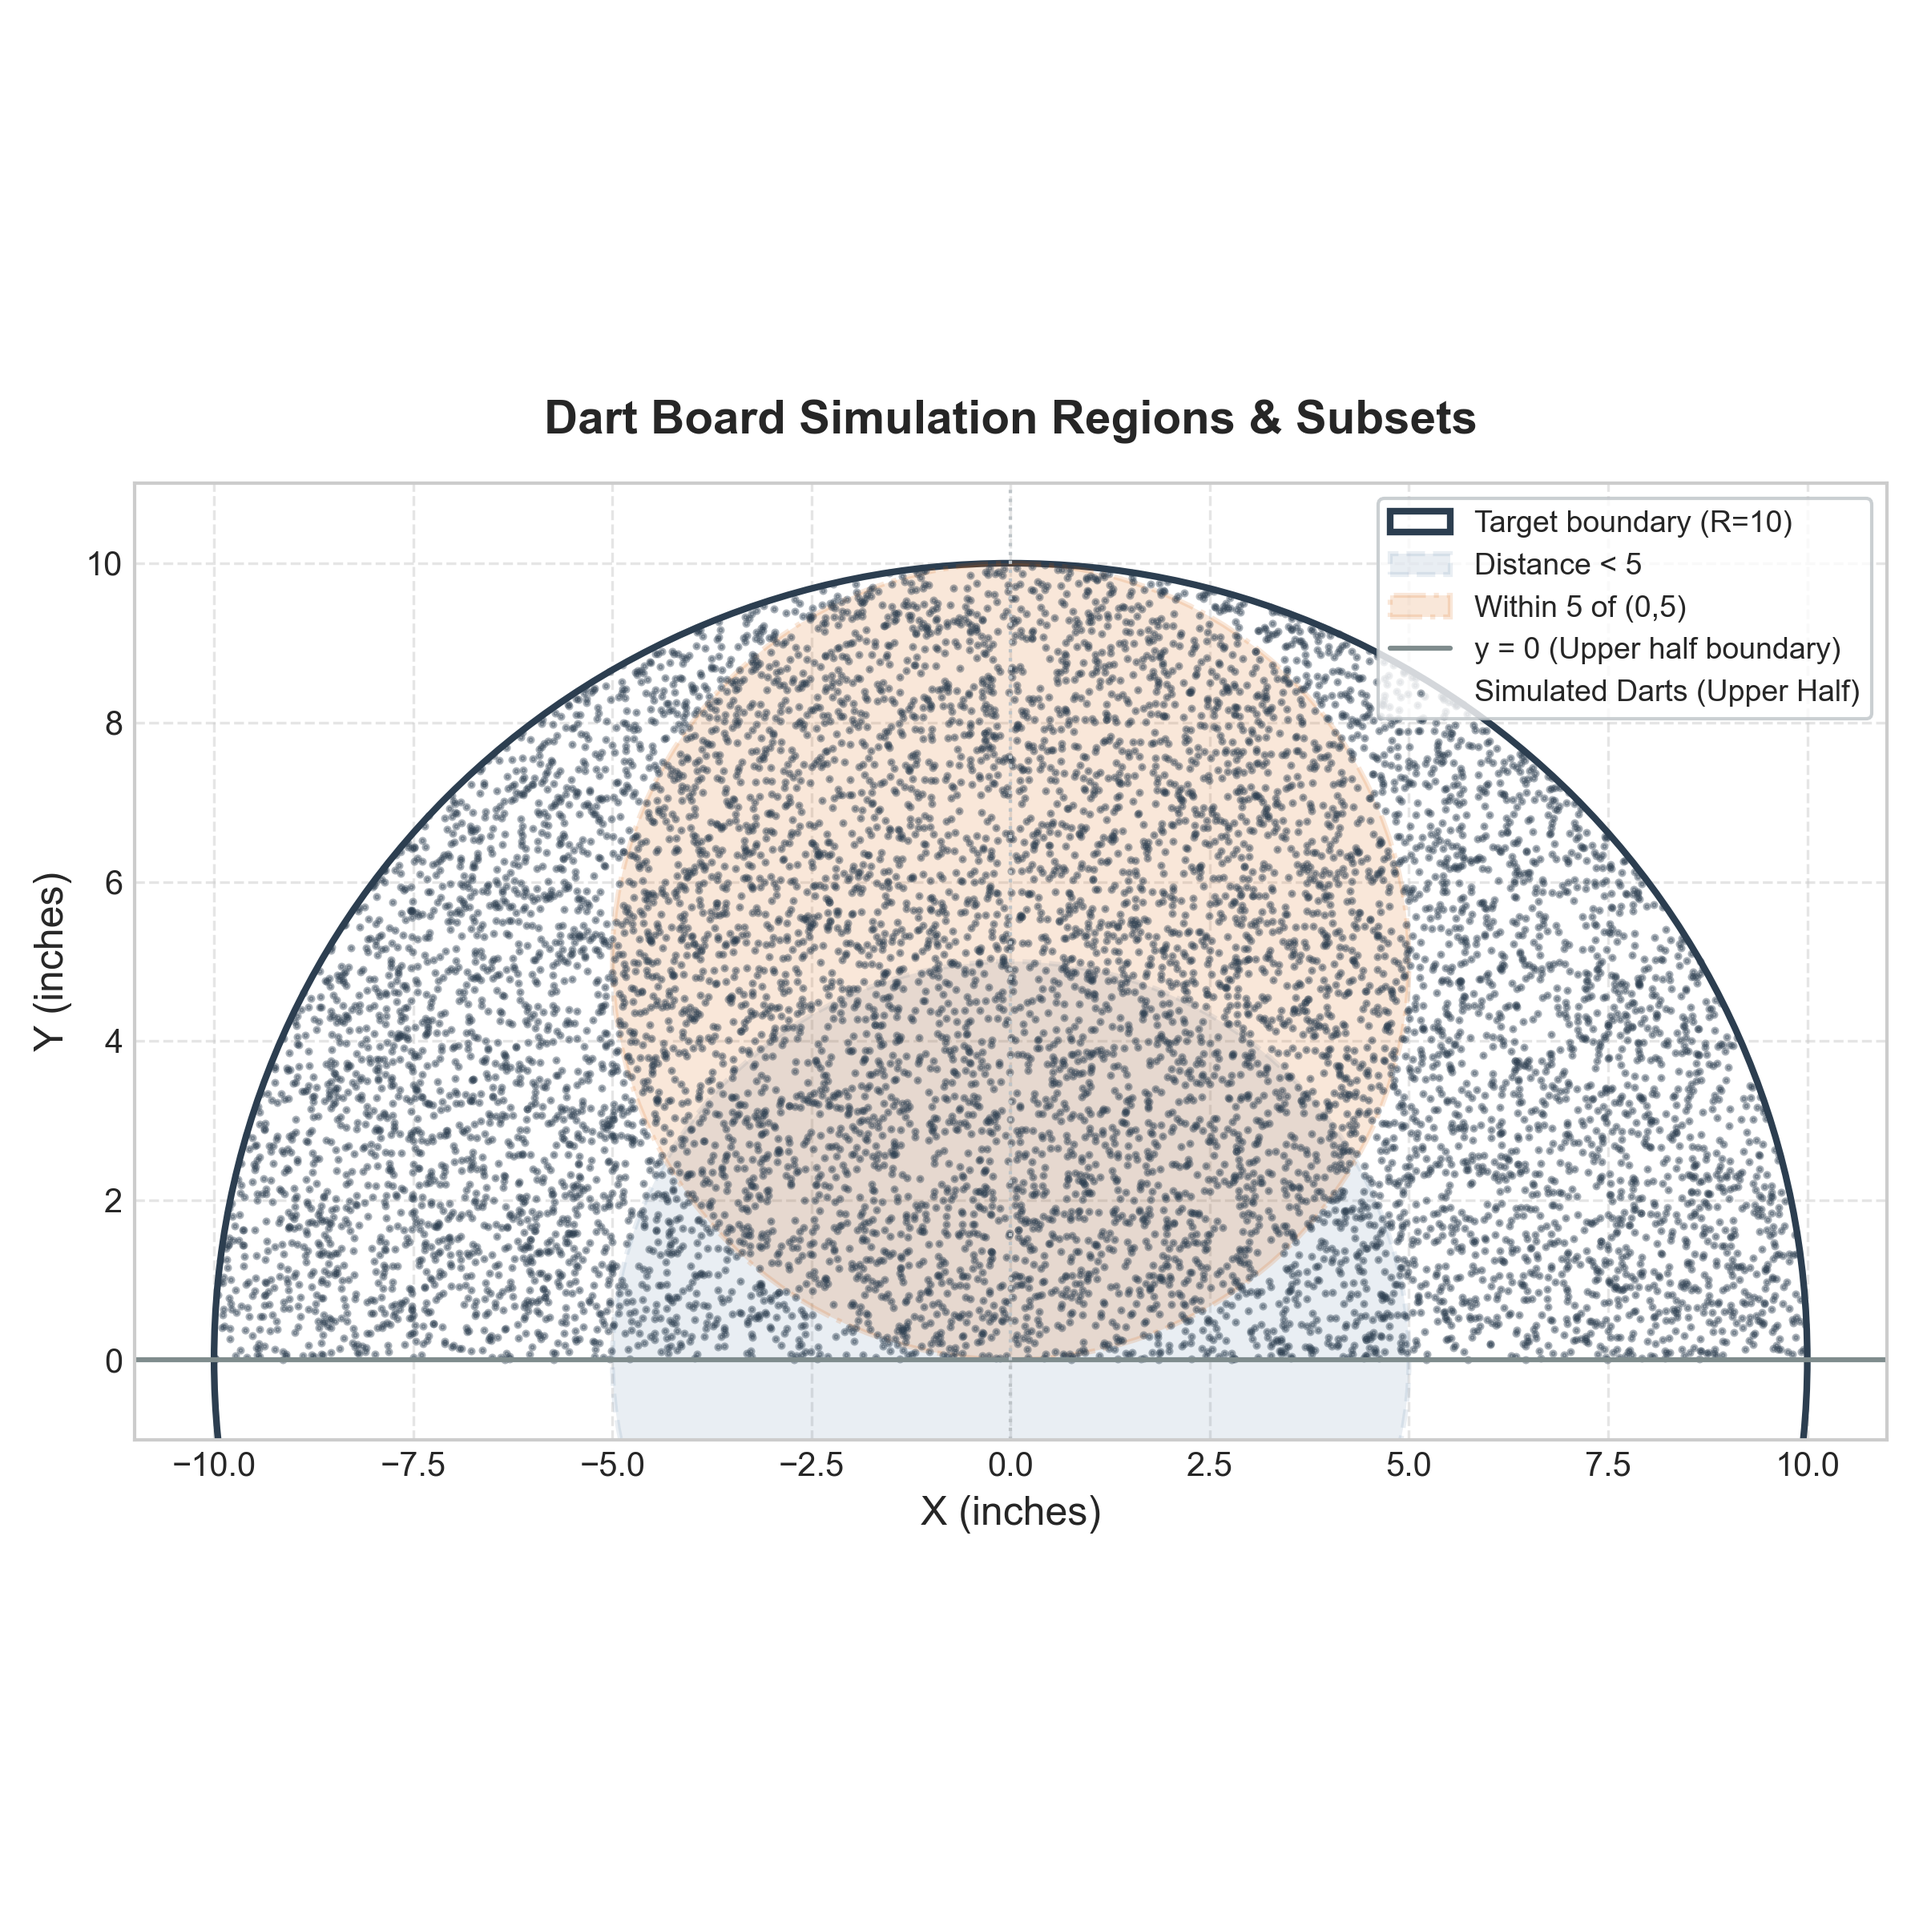
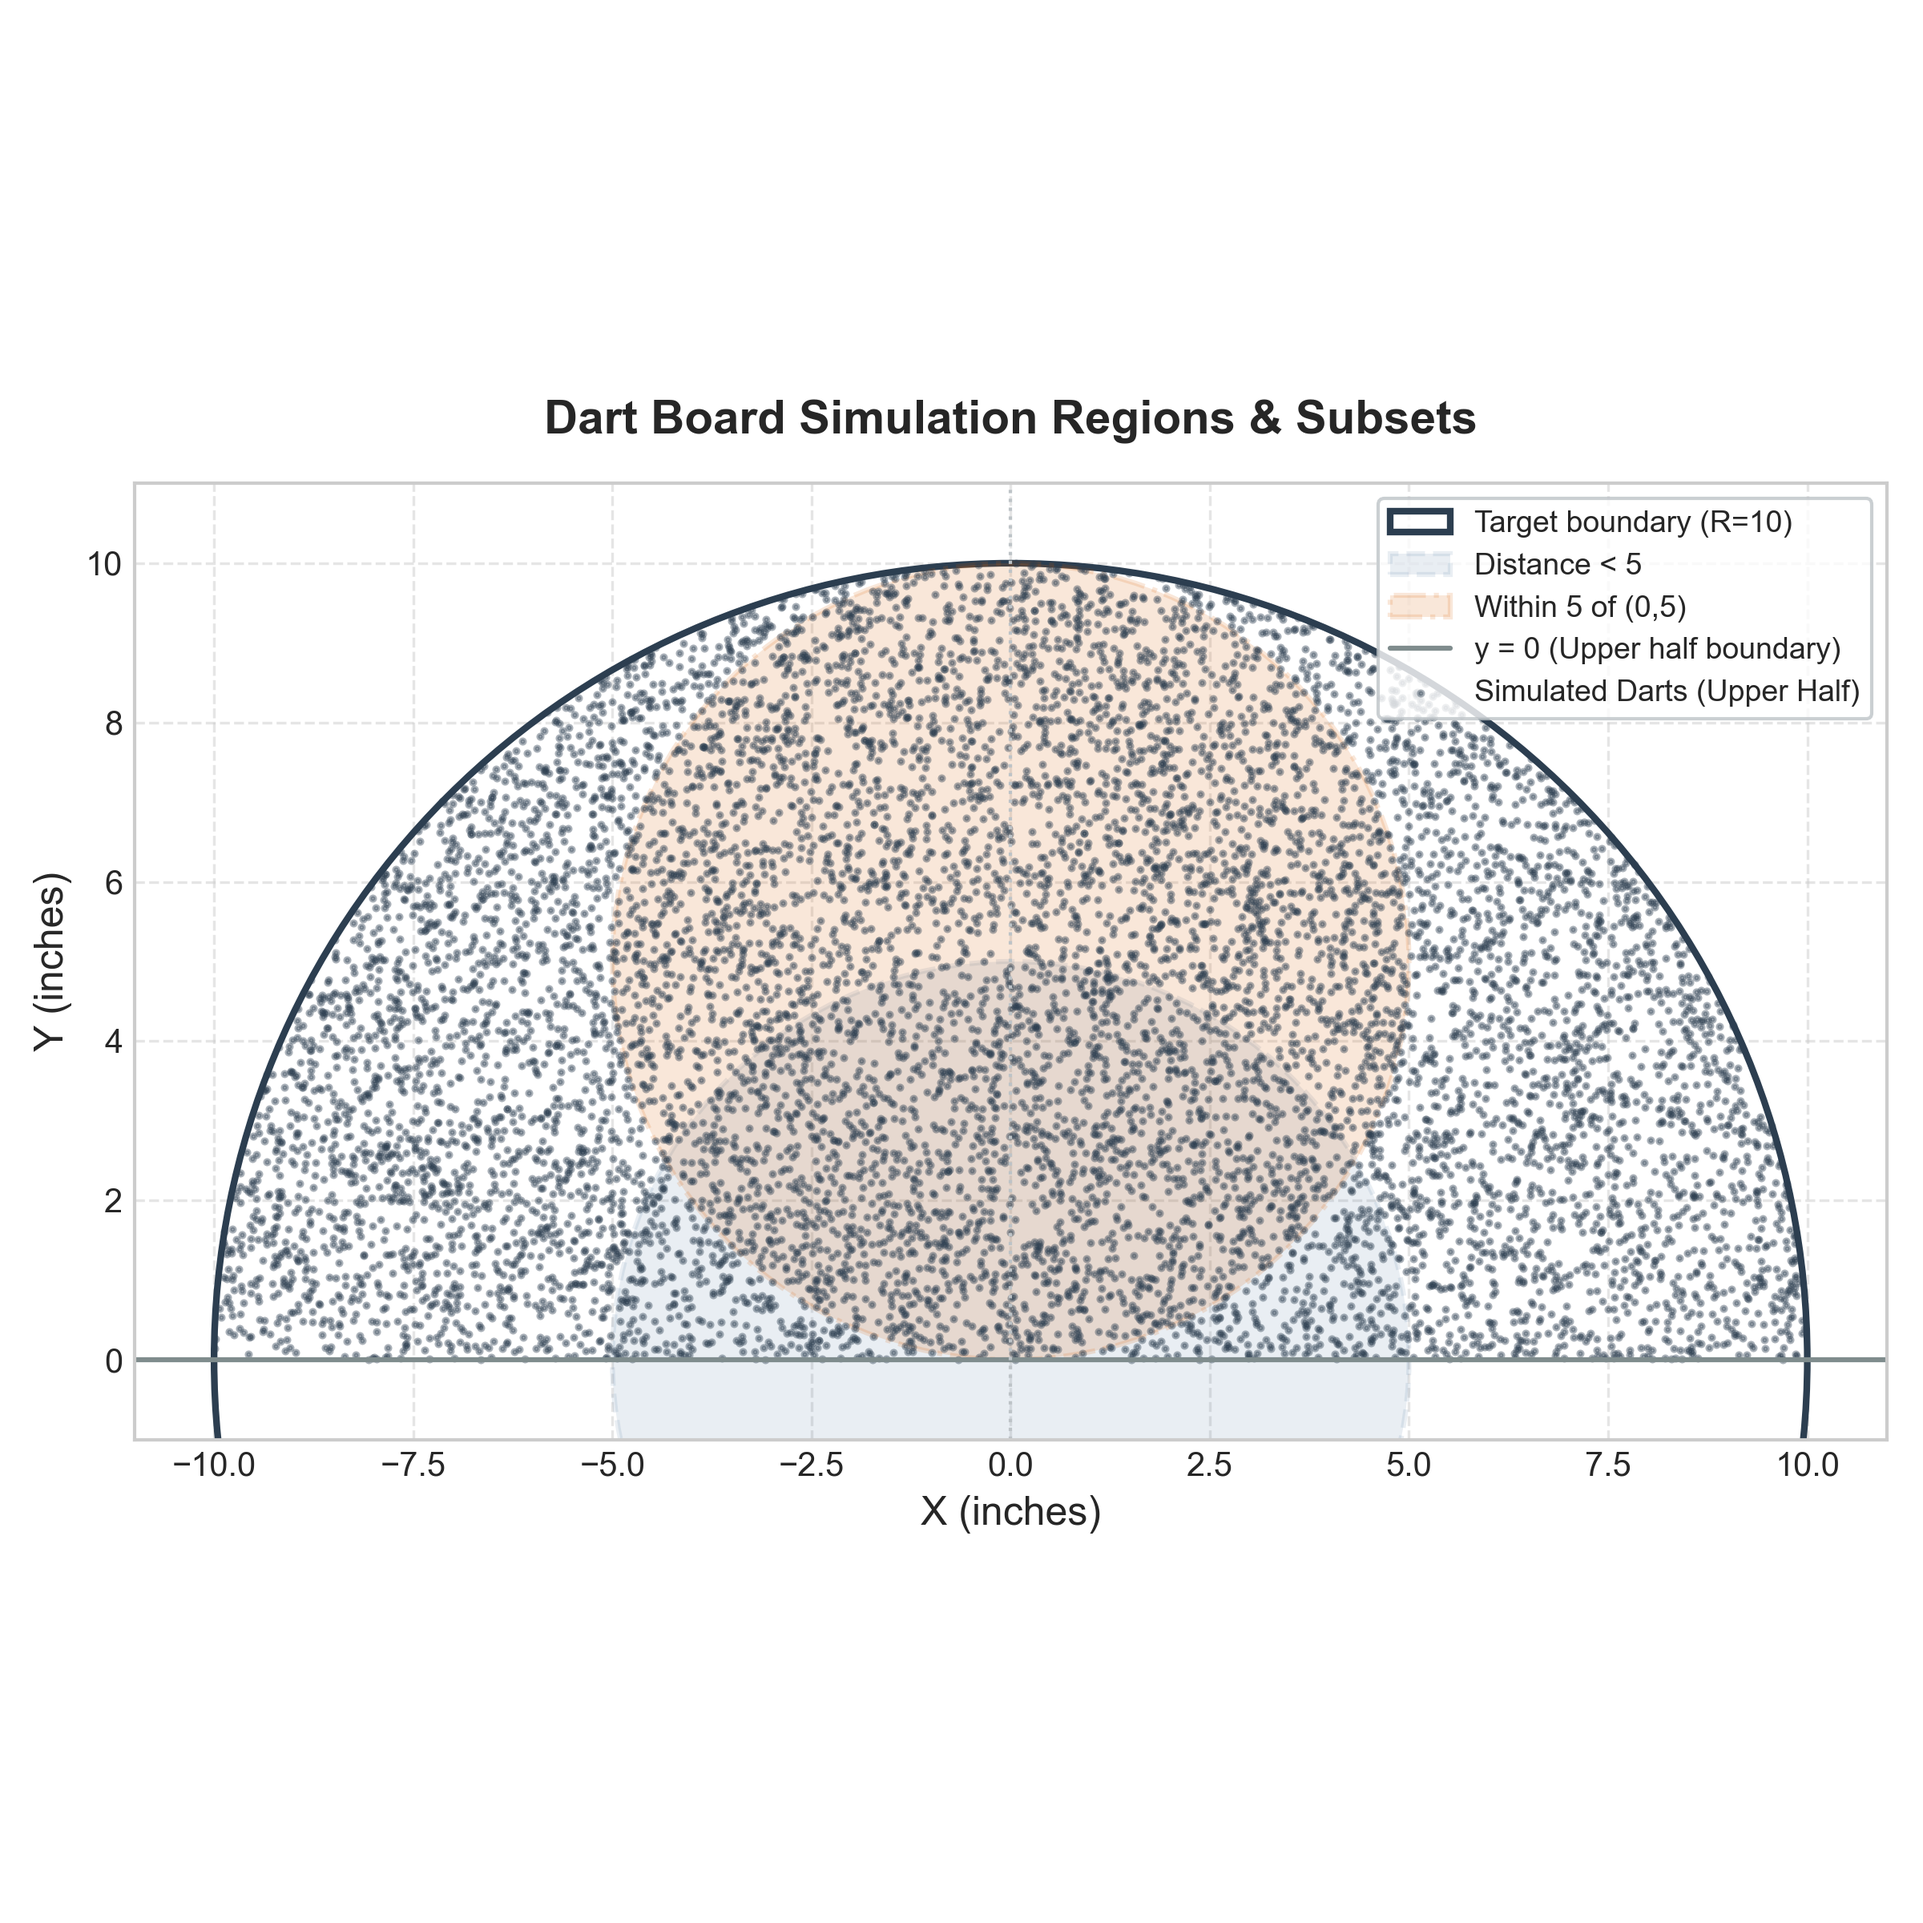
Update tweet analysis outputs

Changed region(s): [[0.0938, 0.2812, 0.9375, 0.7188]]

diff --git a/tempCodeRunnerFile.py b/tempCodeRunnerFile.py
@@ -1,0 +1,94 @@
+import random
+import numpy as np
+import matplotlib.pyplot as plt
+
+def simulate_theater_seating(num_seats=100):
+    # track occupied seats
+    available_seats = list(range(num_seats))
+    
+    # choose a random free seat for first passenger
+    first_choice = random.choice(available_seats)
+    available_seats.remove(first_choice)
+    
+    # simulate remaining passengers boarding
+    for person in range(1, num_seats - 1):
+        if person in available_seats:
+            available_seats.remove(person)
+        else:
+            random_choice = random.choice(available_seats)
+            available_seats.remove(random_choice)
+            
+    # check if last passenger gets their assigned seat
+    last_person_seat = num_seats - 1
+    return available_seats[0] == last_person_seat
+
+def run_simulation(num_seats=100, num_trials=100_000):
+    print(f"Running Monte Carlo simulation ({num_trials} trials)...")
+    
+    results = np.zeros(num_trials)
+    for i in range(num_trials):
+        # simulate one boarding process
+        results[i] = 1 if simulate_theater_seating(num_seats) else 0
+        
+    # estimate probability
+    success_count = np.sum(results)
+    sim_prob = success_count / num_trials
+    theo_prob = 0.5000
+    
+    print("\n--- Theater Seating Simulation Results ---")
+    print(f"Total seats: {num_seats}")
+    print(f"Total trials: {num_trials:,}")
+    print(f"Successes (last person in correct seat): {int(success_count):,}\n")
+    print(f"{'Metric':<25} | {'Value':<10}")
+    print("-" * 38)
+    print(f"{'Simulated Probability':<25} | {sim_prob:.4f}")
+    print(f"{'Theoretical Probability':<25} | {theo_prob:.4f}")
+    print(f"{'Absolute Difference':<25} | {abs(sim_prob - theo_prob):.5f}")
+    
+    # plot convergence behavior
+    plot_convergence(results, theo_prob)
+
+def plot_convergence(results, theo_prob):
+    # set visual style
+    plt.style.use('seaborn-v0_8-whitegrid' if 'seaborn-v0_8-whitegrid' in plt.style.available else 'default')
+    fig, ax = plt.subplots(figsize=(10, 6))
+    
+    # compute running probability
+    num_trials = len(results)
+    # subsample points to avoid heavy plotting
+    step = 100
+    indices = np.arange(step, num_trials + 1, step)
+    running_successes = np.cumsum(results)
+    running_prob = running_successes[indices - 1] / indices
+    
+    # plot running probability line
+    ax.plot(indices, running_prob, color='#2b5c8f', linewidth=1.5, label='Running Monte Carlo Estimate')
+    
+    # plot theoretical expectation line
+    ax.axhline(theo_prob, color='#d95f02', linestyle='--', linewidth=2, label=f'Theoretical Value ({theo_prob:.1f})')
+    
+    # format plot details
+    ax.set_title('Monte Carlo Seating Probability Convergence', fontsize=14, fontweight='bold', pad=15)
+    ax.set_xlabel('Number of Trials', fontsize=12)
+    ax.set_ylabel('Estimated Probability', fontsize=12)
+    ax.set_ylim(0.4, 0.6)
+    ax.set_xlim(0, num_trials)
+    ax.legend(fontsize=10, loc='upper right', frameon=True, facecolor='white', edgecolor='#bdc3c7')
+    ax.grid(True, linestyle='--', alpha=0.5)
+    
+    # display results text box
+    final_prob = running_successes[-1] / num_trials
+    info_text = (f"Final Estimate: {final_prob:.4f}\n"
+                 f"Theoretical:    {theo_prob:.4f}\n"
+                 f"Difference:     {abs(final_prob - theo_prob):.5f}")
+    box_style = dict(boxstyle='round,pad=0.5', facecolor='#f8f9fa', edgecolor='#bdc3c7', alpha=0.9)
+    ax.text(0.60, 0.20, info_text, transform=ax.transAxes, fontsize=10,
+            verticalalignment='top', bbox=box_style, fontfamily='monospace')
+            
+    plt.tight_layout()
+    # save plot
+    plt.savefig('theater_seating_convergence.png', dpi=300)
+    plt.show()
+
+if __name__ == "__main__":
+    run_simulation(100, 100_000)

diff --git a/tweet_analyzer.py b/tweet_analyzer.py
@@ -54,6 +54,8 @@ def clean_and_tokenize():
                 continue
 
             clean_word_lower = clean_word.lower()
+            if clean_word_lower == "rt" or clean_word_lower.isdigit():
+                continue
             cleaned_tweet_words.append(clean_word_lower)
             all_words.append(clean_word_lower)
 
